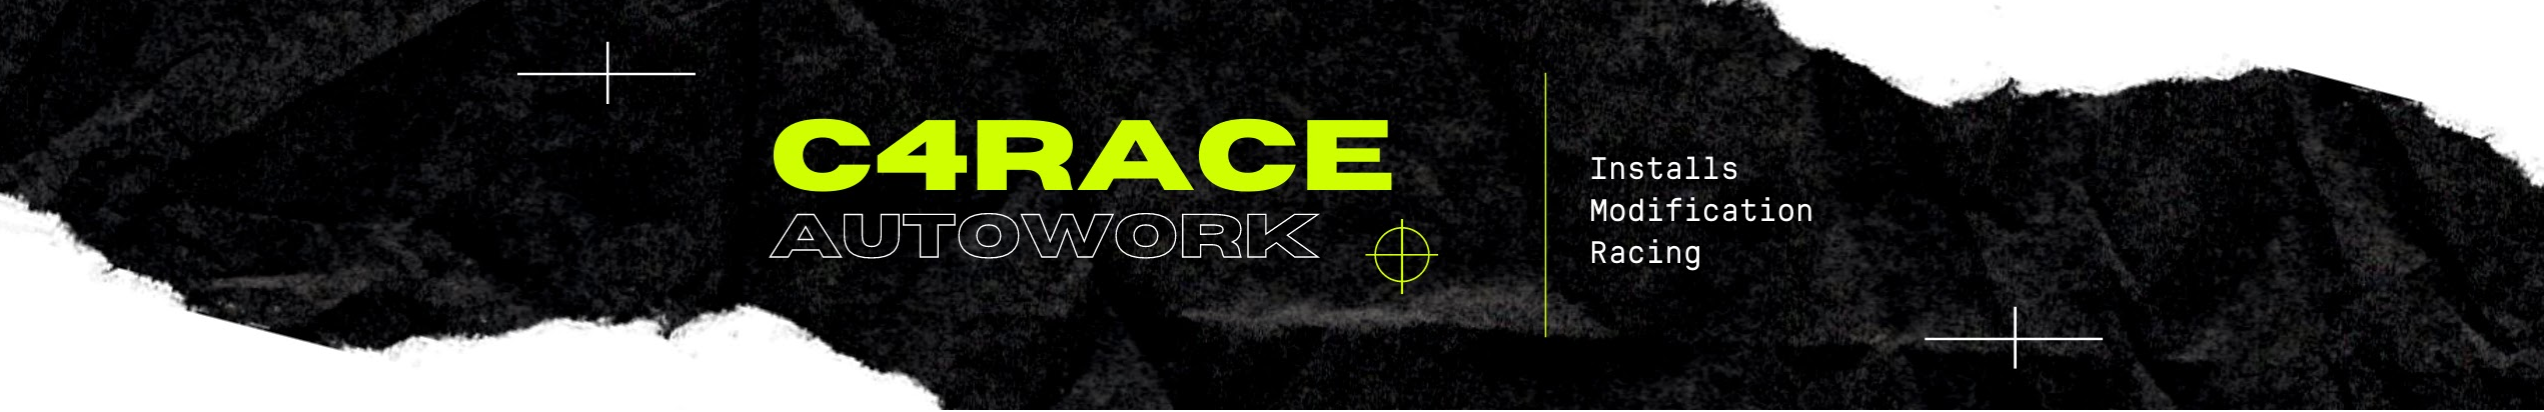
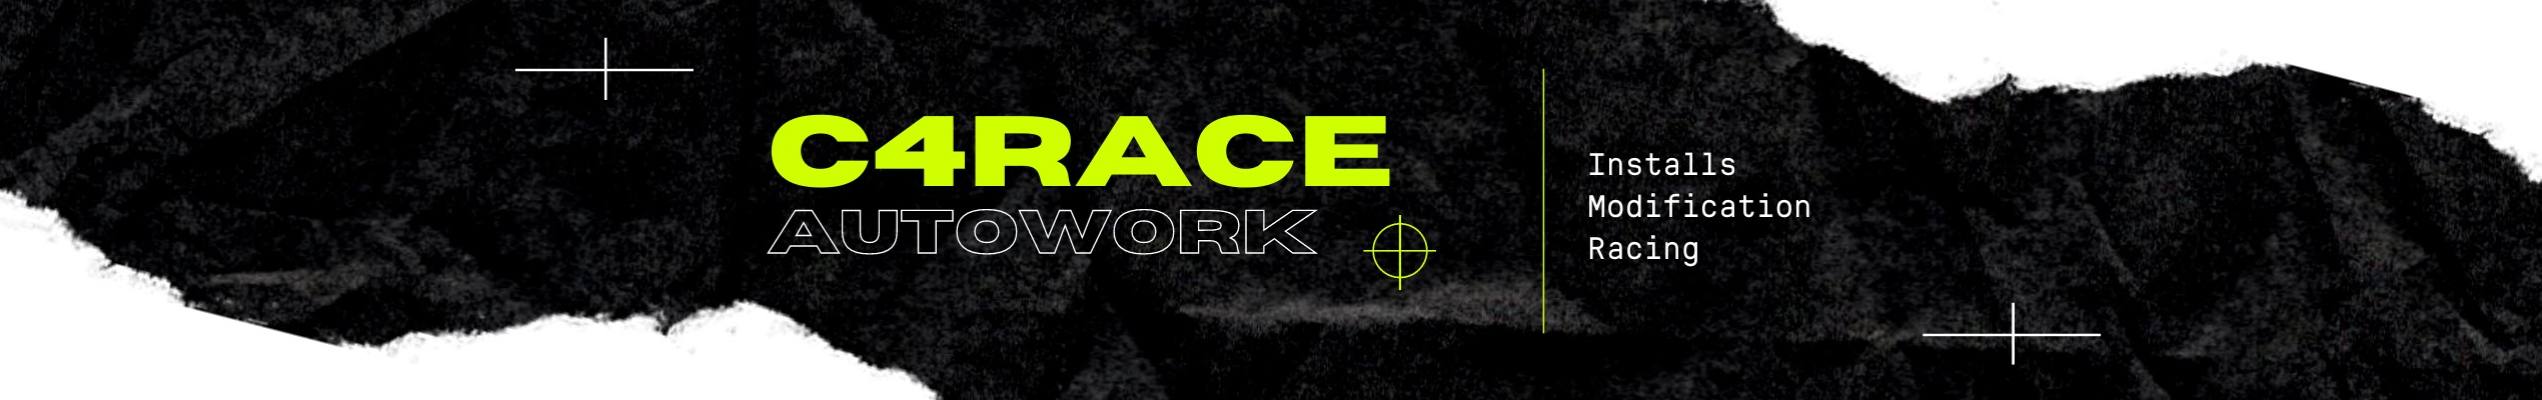
CSS Changes and Image resize

diff --git a/css/styles.css b/css/styles.css
@@ -3,6 +3,11 @@ img.banner {
     width: 100%;
 }
 
+img.banner {
+    max-width: 100%;
+    height: auto;
+  }
+
 .bg-dark {
     color: #fff;
 }
